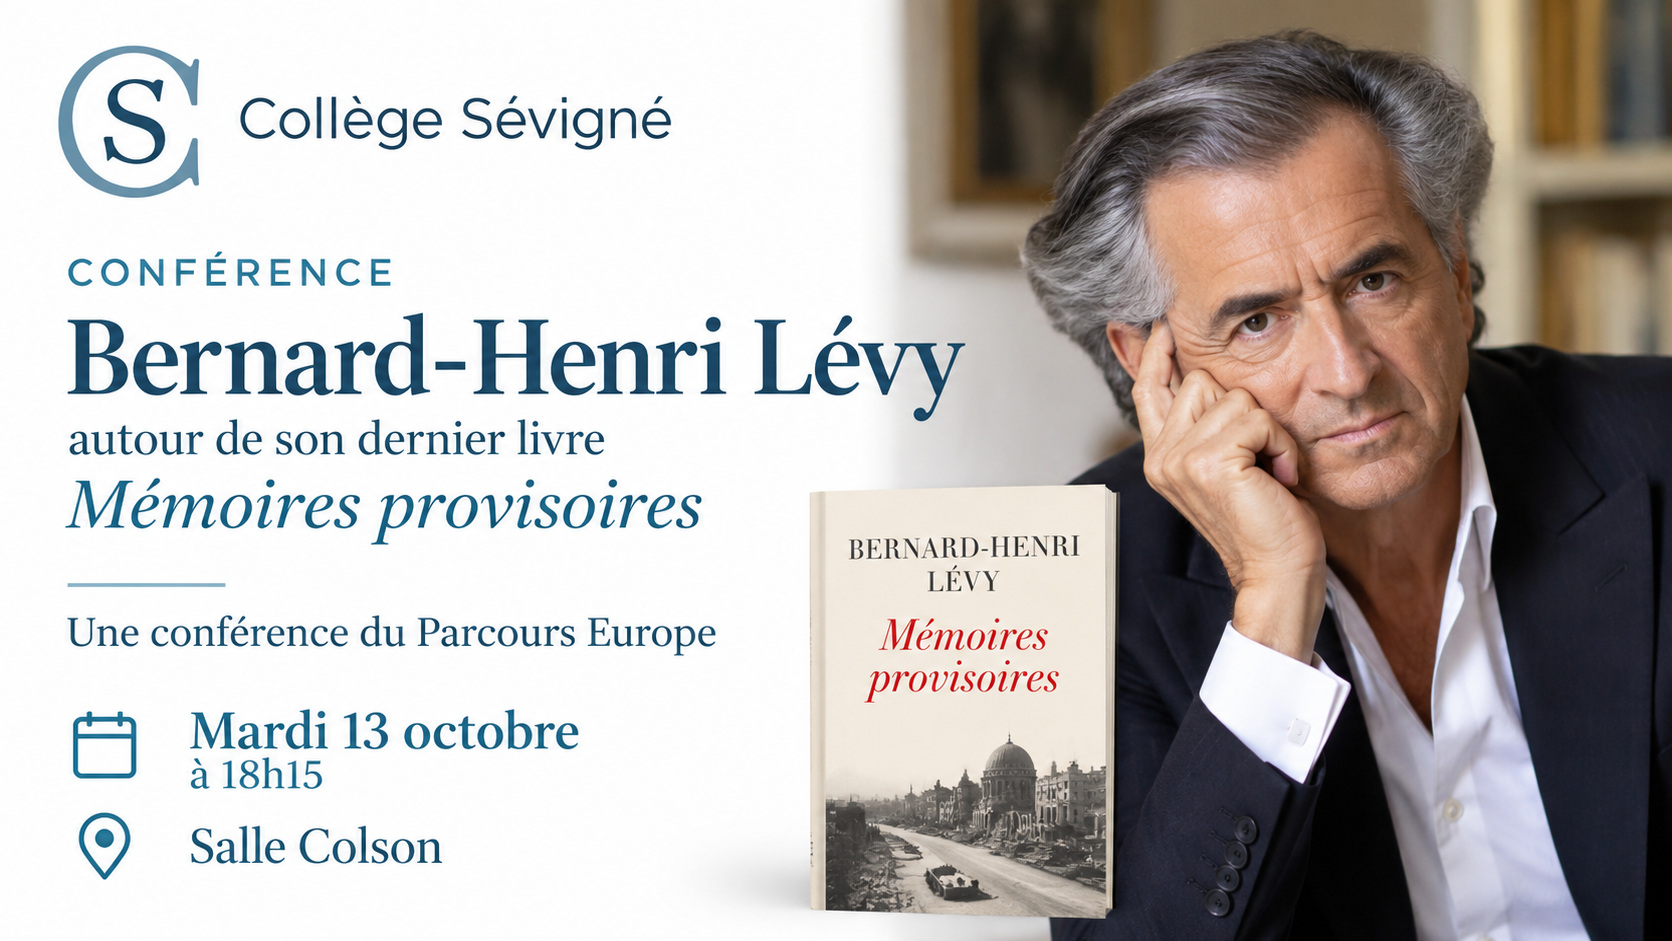
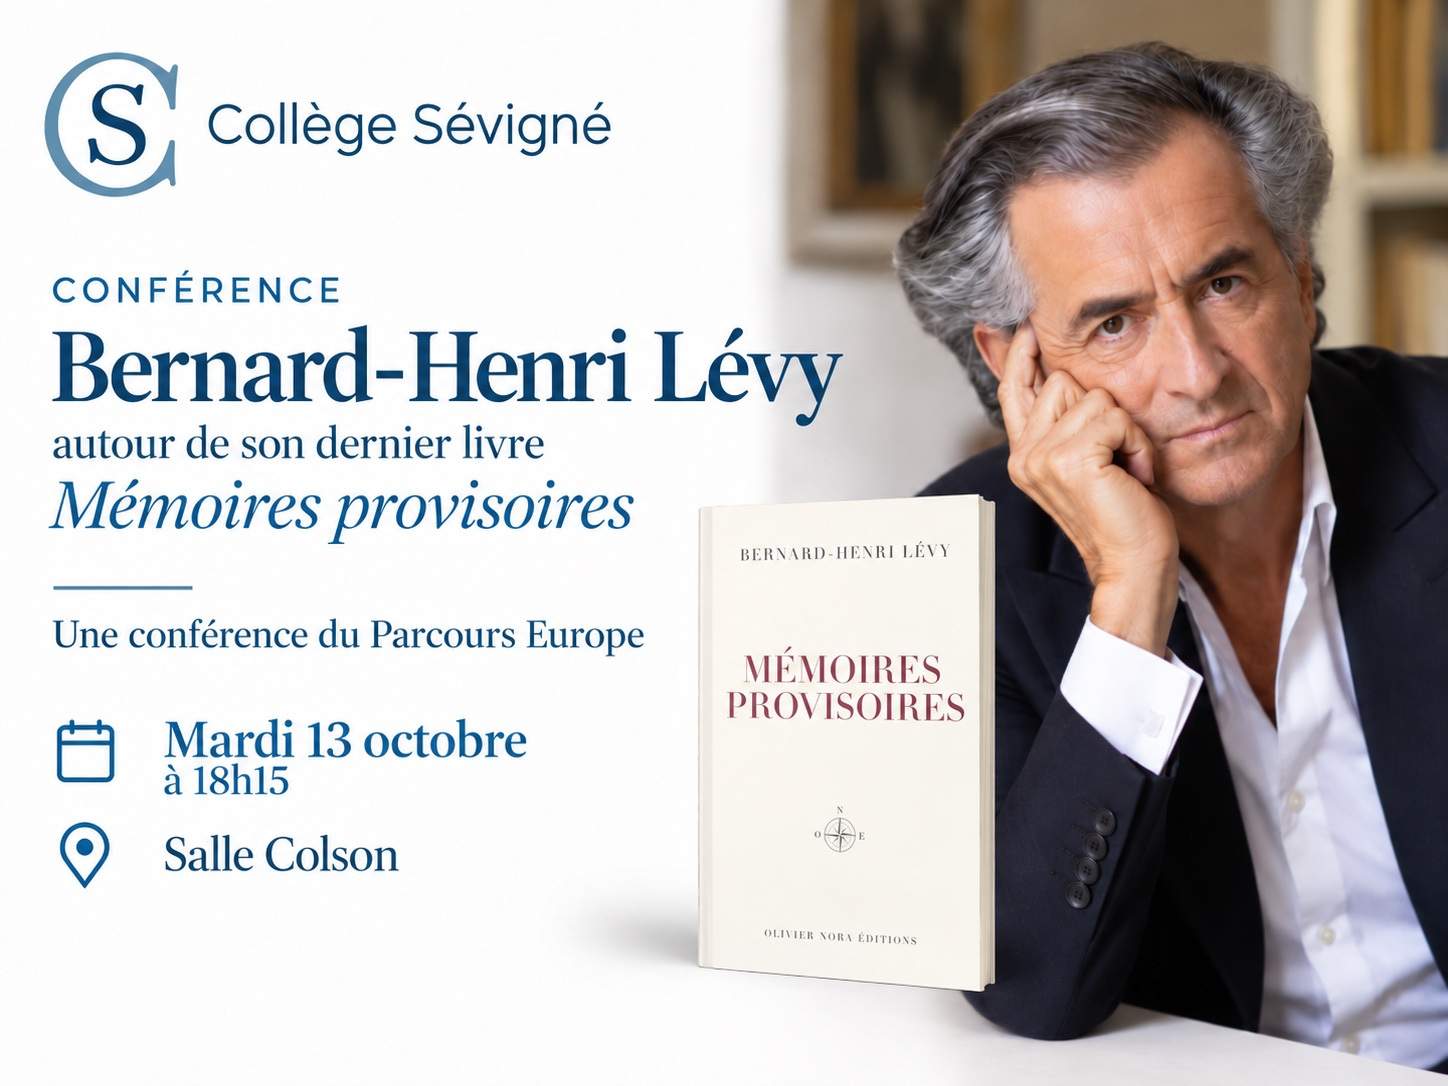
Add files via upload

diff --git a/index.html b/index.html
@@ -2,7 +2,7 @@
 
 <html lang="fr"><head>
 <meta content="no-cache, no-store, must-revalidate" http-equiv="Cache-Control"/><meta charset="utf-8"/><meta content="width=device-width,initial-scale=1,viewport-fit=cover" name="viewport"/><meta content="#6f91a6" name="theme-color"/>
-<title>Agenda du collège et du lycée — Collège Sévigné</title><link href="manifest.webmanifest" rel="manifest"/><link href="style.css?v=100" rel="stylesheet"/>
+<title>Agenda du collège et du lycée — Collège Sévigné</title><link href="manifest.webmanifest" rel="manifest"/><link href="style.css?v=101" rel="stylesheet"/>
 <style>
 /* V21 — hero branding */
 .hero-brand, .hero-title, .hero-copy, .hero-overlay, .hero-title-wrap {
@@ -176,7 +176,7 @@
 }
 </style>
 </head><body>
-<header class="hero new-hero"><div aria-label="Conférences et événements du Collège Sévigné" aria-roledescription="carousel" class="archive-hero sevigne-carousel" id="sevigneHeroCarousel"><div class="hero-slides"><div class="hero-slide active" data-slide="0" style="--slide-bg:url('./bandeau-sevigne-01.jpg?v=100')"><img alt="Conférence de Bernard-Henri Lévy, 13 octobre 2026, salle Colson" loading="eager" src="./bandeau-sevigne-01.jpg?v=100"/></div><div class="hero-slide" data-slide="1" style="--slide-bg:url('./bandeau-sevigne-02.jpg?v=100')"><img alt="Conférence de Pierre Moscovici, 10 novembre 2026, salle Colson" loading="lazy" src="./bandeau-sevigne-02.jpg?v=100"/></div><div class="hero-slide" data-slide="2" style="--slide-bg:url('./bandeau-sevigne-03.jpg?v=100')"><img alt="Master classe de Wes Anderson, 9 novembre 2026, cinéma des Ursulines" loading="lazy" src="./bandeau-sevigne-03.jpg?v=100"/></div></div><button aria-label="Photo précédente" class="hero-arrow hero-prev" type="button">‹</button><button aria-label="Photo suivante" class="hero-arrow hero-next" type="button">›</button><div aria-label="Choisir une photographie" class="hero-dots"><button aria-label="Affiche 1" class="hero-dot active" data-hero-dot="0" type="button"></button><button aria-label="Affiche 2" class="hero-dot" data-hero-dot="1" type="button"></button><button aria-label="Affiche 3" class="hero-dot" data-hero-dot="2" type="button"></button></div></div></header>
+<header class="hero new-hero"><div aria-label="Conférences et événements du Collège Sévigné" aria-roledescription="carousel" class="archive-hero sevigne-carousel" id="sevigneHeroCarousel"><div class="hero-slides"><div class="hero-slide active" data-slide="0" style="--slide-bg:url('./bandeau-sevigne-01.jpg?v=101')"><img alt="Conférence de Bernard-Henri Lévy, 13 octobre 2026, salle Colson" loading="eager" src="./bandeau-sevigne-01.jpg?v=101"/></div><div class="hero-slide" data-slide="1" style="--slide-bg:url('./bandeau-sevigne-02.jpg?v=101')"><img alt="Conférence de Pierre Moscovici, 10 novembre 2026, salle Colson" loading="lazy" src="./bandeau-sevigne-02.jpg?v=101"/></div><div class="hero-slide" data-slide="2" style="--slide-bg:url('./bandeau-sevigne-03.jpg?v=101')"><img alt="Master classe de Wes Anderson, 9 novembre 2026, cinéma des Ursulines" loading="lazy" src="./bandeau-sevigne-03.jpg?v=101"/></div></div><button aria-label="Photo précédente" class="hero-arrow hero-prev" type="button">‹</button><button aria-label="Photo suivante" class="hero-arrow hero-next" type="button">›</button><div aria-label="Choisir une photographie" class="hero-dots"><button aria-label="Affiche 1" class="hero-dot active" data-hero-dot="0" type="button"></button><button aria-label="Affiche 2" class="hero-dot" data-hero-dot="1" type="button"></button><button aria-label="Affiche 3" class="hero-dot" data-hero-dot="2" type="button"></button></div></div></header>
[1 lines of base64/hex data omitted]
 <main>
 <section class="panel active" id="agenda">
@@ -203,7 +203,7 @@
 <details class="need-card"><summary><span class="need-icon">⇄</span><div><b>Changer la composition d’un groupe</b><small>Un circuit très court</small></div></summary><p class="single-step">→ Se rapprocher d’Isabelle Bouat, qui sollicite A. Yvon si nécessaire.</p></details>
 <details class="need-card"><summary><span class="need-icon">△</span><div><b>Bénéficier d’une formation</b><small>Selon votre statut</small></div></summary><div class="choice"><p><b>Personnel enseignant</b><br/>→ rendez-vous avec A. Yvon.</p><p><b>Personnel non enseignant</b><br/>→ rendez-vous avec S. Laubel.</p></div></details>
 <details class="need-card"><summary><span class="need-icon">€</span><div><b>Effectuer un achat</b><small>Formulaire → validation → achat</small></div></summary><ol><li>Obtenir le formulaire au secrétariat, le renseigner et le déposer auprès d’I. Bouat.</li><li>I. Bouat transmet à A. Yvon pour validation.</li><li>Sous 48 h, le formulaire est retourné au demandeur.</li><li>Si accord, transmettre le document renseigné à A. Fillion pour achat.</li></ol></details>
-</div></section></main><footer>“Travaillons à bien penser.”</footer><script src="app.js?v=100"></script>
+</div></section></main><footer>“Travaillons à bien penser.”</footer><script src="app.js?v=101"></script>
 <script>
 (async function(){
   try{

diff --git a/sw.js b/sw.js
@@ -1,5 +1,5 @@
-const CACHE='sevigne-agenda-v100';
-const CORE=['./','./index.html','./style.css?v=100','./app.js?v=100','./manifest.webmanifest','./bandeau-sevigne-01.jpg?v=100','./bandeau-sevigne-02.jpg?v=100','./bandeau-sevigne-03.jpg?v=100'];
+const CACHE='sevigne-agenda-v101';
+const CORE=['./','./index.html','./style.css?v=101','./app.js?v=101','./manifest.webmanifest','./bandeau-sevigne-01.jpg?v=101','./bandeau-sevigne-02.jpg?v=101','./bandeau-sevigne-03.jpg?v=101'];
 self.addEventListener('install',e=>{
   self.skipWaiting();
   e.waitUntil(caches.open(CACHE).then(c=>Promise.all(CORE.map(u=>c.add(u).catch(()=>null)))));
